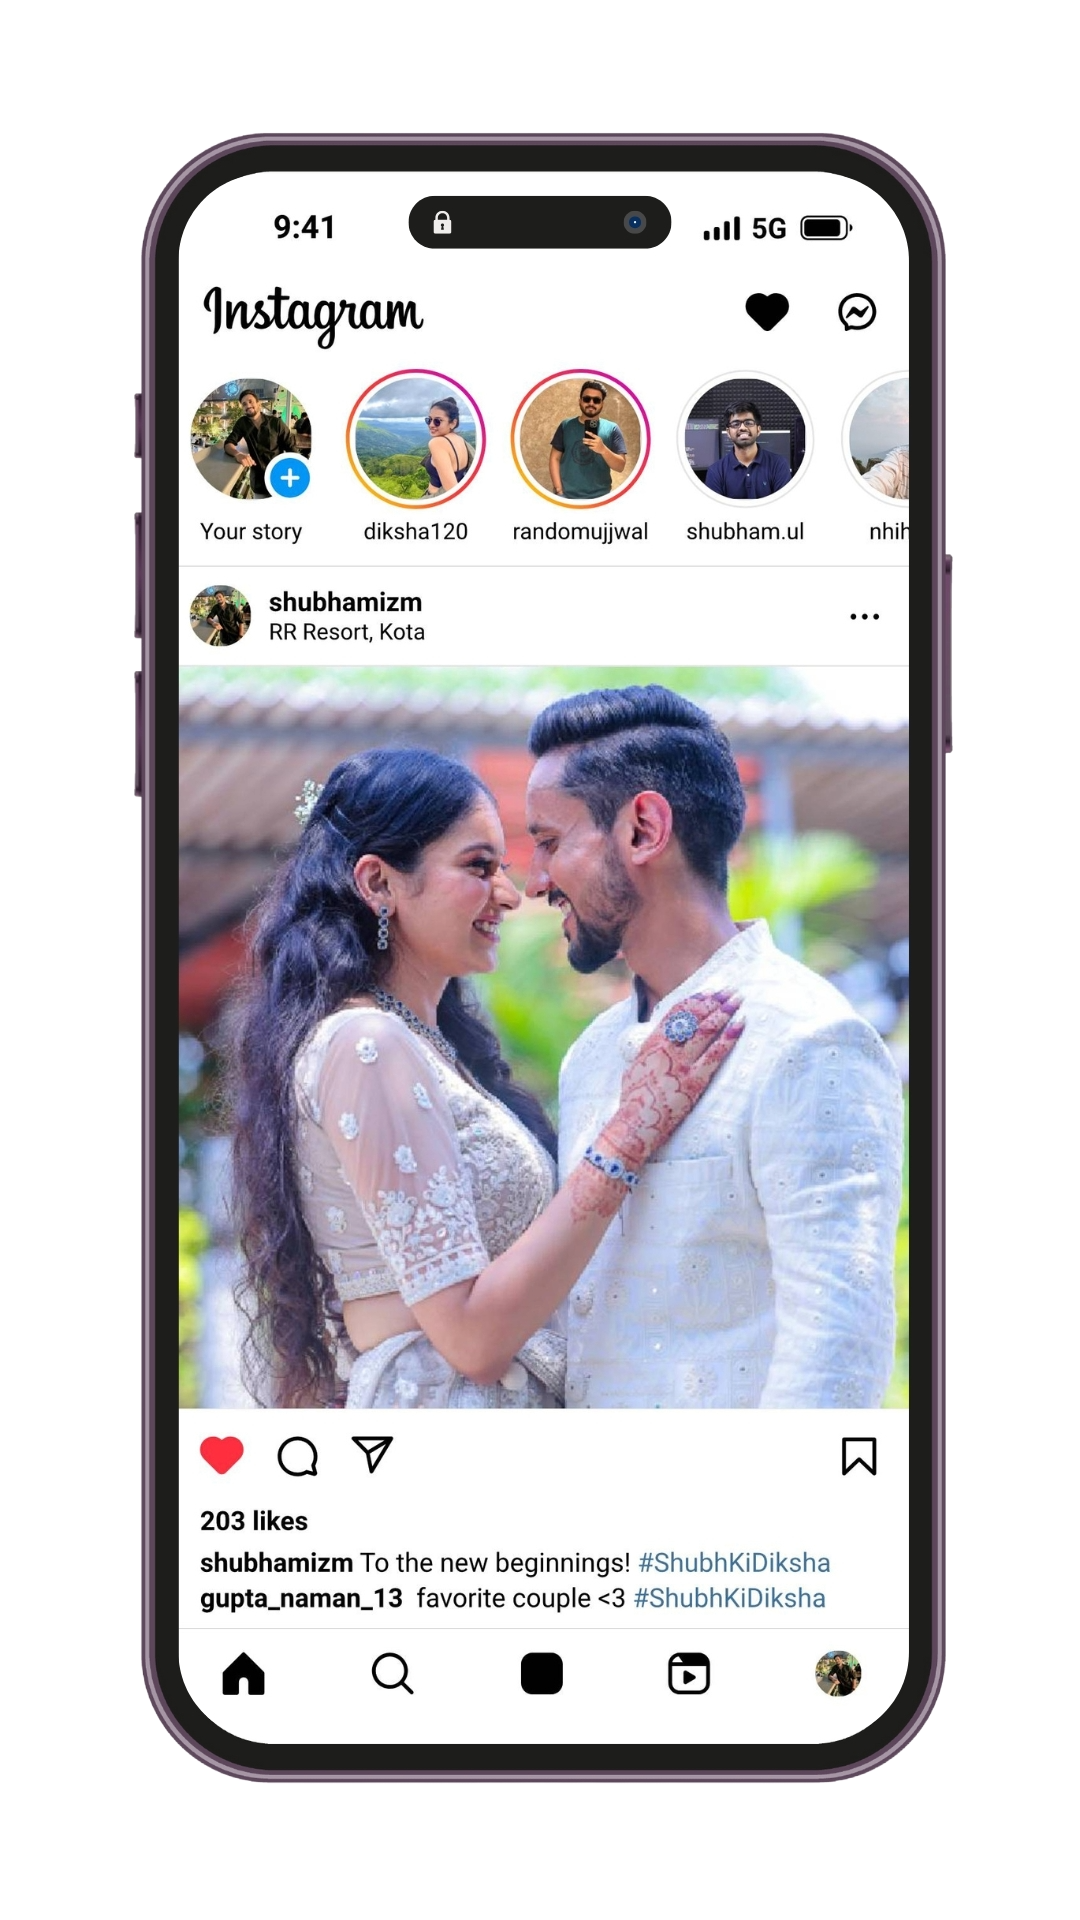
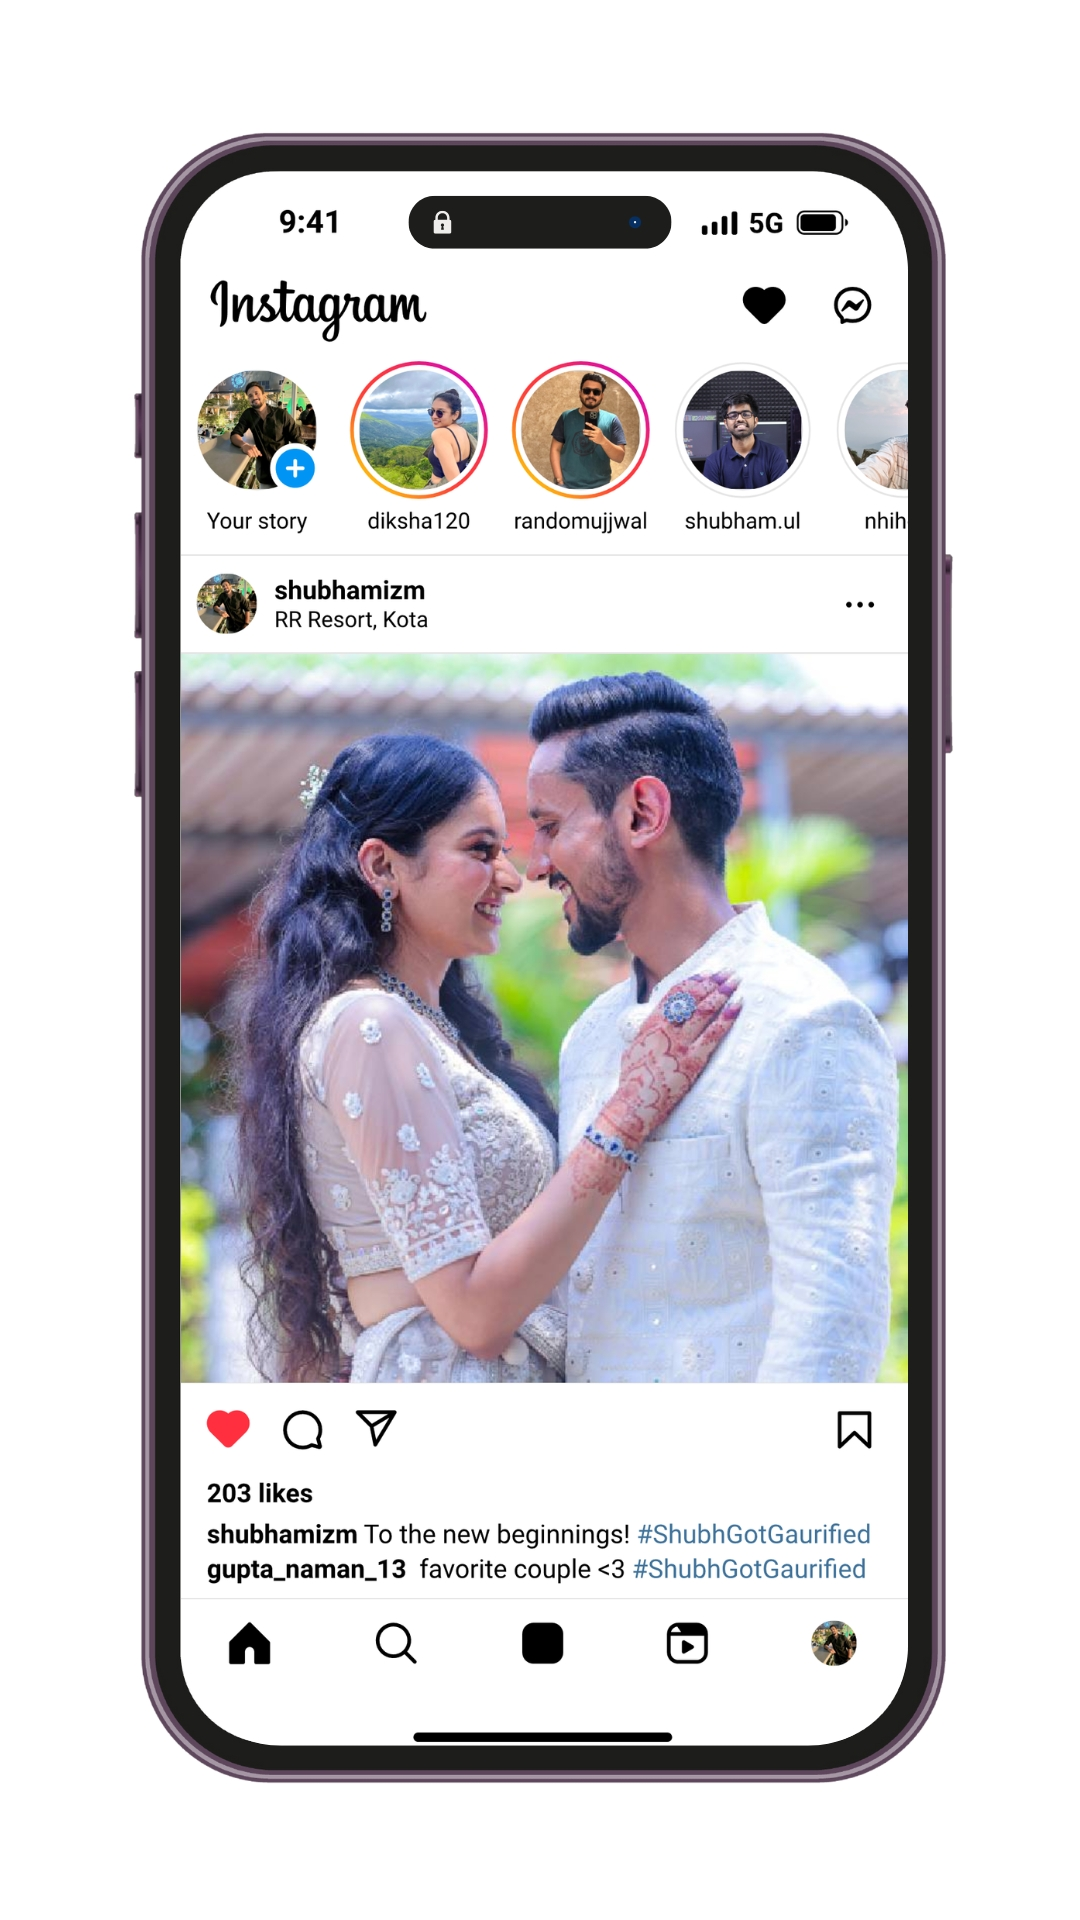
chnaged h3 color

Changed region(s): [[0.1528, 0.0938, 0.8556, 0.9062], [0.5806, 0.0938, 0.6111, 0.125]]

diff --git a/index.html b/index.html
@@ -341,7 +341,7 @@
             <div class="col-md-12 text-center">
                 <h3>A picture is worth a thousand words!</h3>
                 <p>Help us capture the moment, use the hashtag
-                <a href="https://instagram.com/explore/tags/ShubhKiDiksha/" target="_blank" style="font-weight: 500;">#ShubhKiDiksha</a>. </br>
+                <a href="https://instagram.com/explore/tags/ShubhGotGaurified/" target="_blank" style="font-weight: 500;">#ShubhGotGaurified</a>. </br>
                There is also a shared wedding album. 
                It is a collaborative space where we can upload, view, and share memories during the wedding. 
                Join the fun, share the laughter, and relive cherished moments as a group! Whether it's candid smiles, dances, or heartfelt speeches, contribute and enjoy these experiences together.
